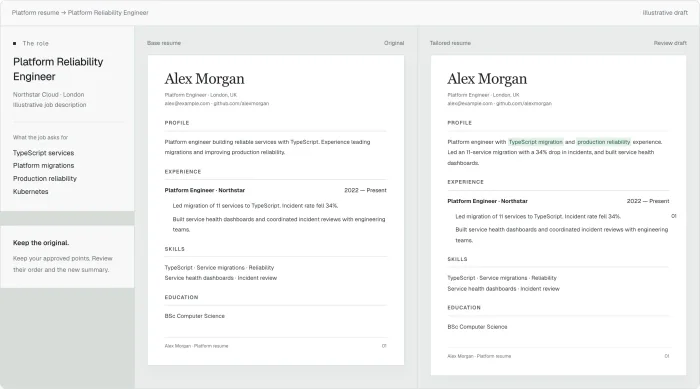
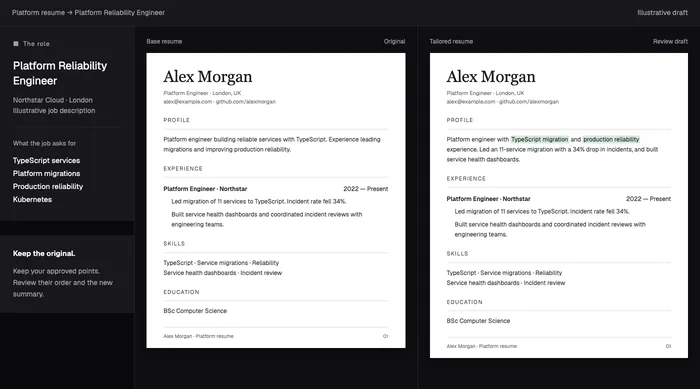
Dark specimen, dark legacy routes (pricing, blog, legal, 404), dedupe CSS tokens for the duplication gate

diff --git a/src/app/readability.css b/src/app/readability.css
@@ -8,33 +8,6 @@
 }
 
 :is(.precision-app-nav ~ main, .product-editor-toolbar) {
-  --foreground: #202724;
-  --card-foreground: #202724;
-  --primary: #20252d;
-  --primary-foreground: #ffffff;
-  --accent: #20252d;
-  --accent-foreground: #ffffff;
-  --secondary: #edf1ef;
-  --secondary-foreground: #202724;
-  --muted: #edf1ef;
-  --muted-foreground: #4e5b57;
-  --border: #cbd4d0;
-  --input: #b6c3bc;
-  --ring: #265d49;
-  --color-foreground: var(--foreground);
-  --color-card-foreground: var(--card-foreground);
-  --color-primary: var(--primary);
-  --color-primary-foreground: var(--primary-foreground);
-  --color-secondary: var(--secondary);
-  --color-secondary-foreground: var(--secondary-foreground);
-  --color-muted: var(--muted);
-  --color-muted-foreground: var(--muted-foreground);
-  --color-accent: var(--accent);
-  --color-accent-foreground: var(--accent-foreground);
-  --color-border: var(--border);
-  --color-input: var(--input);
-  --color-ring: var(--ring);
-  --font-sans: var(--font-geist-sans), system-ui, sans-serif;
   color: var(--foreground);
   font-family: var(--font-sans);
   font-weight: 450;
@@ -52,11 +25,11 @@
 :is(.precision-app-nav ~ main, .product-editor-toolbar) .text-sm { font-size: 0.9375rem; line-height: 1.65; }
 :is(.precision-app-nav ~ main, .product-editor-toolbar) .text-xs { font-size: 0.8125rem; line-height: 1.7; }
 :is(.precision-app-nav ~ main, .product-editor-toolbar) :is(.text-gray-400, .text-gray-500) { color: var(--muted-foreground); }
-:is(.precision-app-nav ~ main, .product-editor-toolbar) .text-red-400 { color: #a52d31; }
-:is(.precision-app-nav ~ main, .product-editor-toolbar) .text-emerald-400 { color: #196044; }
-:is(.precision-app-nav ~ main, .product-editor-toolbar) .text-amber-400 { color: #865308; }
-:is(.precision-app-nav ~ main, .product-editor-toolbar) .text-sky-400 { color: #155d82; }
-:is(.precision-app-nav ~ main, .product-editor-toolbar) :is(input, textarea, select)::placeholder { color: #60716a; opacity: 1; }
+:is(.precision-app-nav ~ main, .product-editor-toolbar) .text-red-400 { color: #ff6467; }
+:is(.precision-app-nav ~ main, .product-editor-toolbar) .text-emerald-400 { color: #6ee7b7; }
+:is(.precision-app-nav ~ main, .product-editor-toolbar) .text-amber-400 { color: #fbbf24; }
+:is(.precision-app-nav ~ main, .product-editor-toolbar) .text-sky-400 { color: #7dd3fc; }
+:is(.precision-app-nav ~ main, .product-editor-toolbar) :is(input, textarea, select)::placeholder { color: #9f9fa9; opacity: 1; }
 :is(.precision-app-nav ~ main, .product-editor-toolbar) label { letter-spacing: 0.025em; }
 :is(.precision-app-nav ~ main, .product-editor-toolbar) .input-base { line-height: 1.65; }
 :is(.precision-app-nav ~ main, .product-editor-toolbar) .product-primary-action {
@@ -64,17 +37,17 @@
   color: var(--primary-foreground);
   border-color: var(--primary);
 }
-:is(.precision-app-nav ~ main, .product-editor-toolbar) .product-primary-action:hover:not(:disabled) { background: #343e39; }
+:is(.precision-app-nav ~ main, .product-editor-toolbar) .product-primary-action:hover:not(:disabled) { background: #d4d4d8; }
 
 @media(max-width:700px) {
   :is(.precision-app-nav ~ main, .product-editor-toolbar) :is(input, textarea, select).input-base { font-size: 1rem; }
 }
 
-/* Legacy light-tone badges and micro-labels must remain readable on white. */
-:is(.precision-app-nav ~ main, .product-editor-toolbar) :is(.text-emerald-300, .text-emerald-200, .text-emerald-100) { color: #196044; }
-:is(.precision-app-nav ~ main, .product-editor-toolbar) :is(.text-sky-300, .text-sky-200, .text-sky-100) { color: #155d82; }
-:is(.precision-app-nav ~ main, .product-editor-toolbar) :is(.text-amber-300, .text-amber-200, .text-amber-100, [class~="text-amber-200/80"]) { color: #865308; }
-:is(.precision-app-nav ~ main, .product-editor-toolbar) :is(.text-red-300, .text-red-200, .text-red-100) { color: #a52d31; }
+/* Legacy light-tone badges and micro-labels must remain readable on dark. */
+:is(.precision-app-nav ~ main, .product-editor-toolbar) :is(.text-emerald-300, .text-emerald-200, .text-emerald-100) { color: #6ee7b7; }
+:is(.precision-app-nav ~ main, .product-editor-toolbar) :is(.text-sky-300, .text-sky-200, .text-sky-100) { color: #7dd3fc; }
+:is(.precision-app-nav ~ main, .product-editor-toolbar) :is(.text-amber-300, .text-amber-200, .text-amber-100, [class~="text-amber-200/80"]) { color: #fbbf24; }
+:is(.precision-app-nav ~ main, .product-editor-toolbar) :is(.text-red-300, .text-red-200, .text-red-100) { color: #ff6467; }
 :is(.precision-app-nav ~ main, .product-editor-toolbar) :is([class~="text-[10px]"], [class~="text-[11px]"]) { font-size: 0.75rem; line-height: 1.6; }
 .product-editor-toolbar :is(.text-gray-200, .text-gray-400, .text-gray-500) { color: var(--muted-foreground); }
 /* Selected Outline layout: the existing Precision Studio system, with section indexing. */

diff --git a/src/app/globals.css b/src/app/globals.css
@@ -4,27 +4,27 @@
 @import "./workspace.css";
 
 :root {
-  color-scheme: light;
-  --radius: 0.5rem;
-  --background: #f8fafc;
-  --foreground: #1b2940;
-  --card: #ffffff;
-  --card-foreground: #1b2940;
-  --popover: #ffffff;
-  --popover-foreground: #1b2940;
-  --primary: #345cf0;
-  --primary-foreground: #ffffff;
-  --secondary: #e8eef9;
-  --secondary-foreground: #1b2940;
-  --muted: #edf1f7;
-  --muted-foreground: #5b687c;
-  --accent: #345cf0;
-  --accent-foreground: #ffffff;
-  --destructive: #a63838;
-  --destructive-foreground: #ffffff;
-  --border: #dfe5ee;
-  --input: #dfe5ee;
-  --ring: #345cf0;
+  color-scheme: dark;
+  --radius: 0.625rem;
+  --background: #09090b;
+  --foreground: #fafafa;
+  --card: #18181b;
+  --card-foreground: #fafafa;
+  --popover: #18181b;
+  --popover-foreground: #fafafa;
+  --primary: #e4e4e7;
+  --primary-foreground: #18181b;
+  --secondary: #27272a;
+  --secondary-foreground: #fafafa;
+  --muted: #27272a;
+  --muted-foreground: #9f9fa9;
+  --accent: #27272a;
+  --accent-foreground: #fafafa;
+  --destructive: #ff6467;
+  --destructive-foreground: #18181b;
+  --border: rgba(255, 255, 255, 0.1);
+  --input: rgba(255, 255, 255, 0.1);
+  --ring: #e4e4e7;
 }
 
 @theme inline {
@@ -137,7 +137,7 @@ main {
   }
 }
 
-/* Native selects follow the shared light system. */
+/* Native selects follow the shared dark system. */
 select option {
   background: var(--card);
   color: var(--foreground);
@@ -154,12 +154,12 @@ select option {
 }
 
 ::-webkit-scrollbar-thumb {
-  background: #333;
+  background: #3f3f46;
   border-radius: 3px;
 }
 
 ::-webkit-scrollbar-thumb:hover {
-  background: #555;
+  background: #52525b;
 }
 
 :where(a, button, summary, input, select, textarea):focus-visible { outline: 2px solid var(--ring); outline-offset: 3px; }

diff --git a/src/app/precision.css b/src/app/precision.css
@@ -1,20 +1,20 @@
 /* Precision Studio is scoped to application content; existing footer tokens stay intact. */
-.precision-app, .precision-app-nav {
-  --background: #fcfcfb;
-  --foreground: #191c20;
-  --card: #ffffff;
-  --card-foreground: #191c20;
-  --primary: #20252d;
-  --primary-foreground: #ffffff;
-  --accent: #20252d;
-  --accent-foreground: #ffffff;
-  --secondary: #eef0ee;
-  --secondary-foreground: #191c20;
-  --muted: #f2f3f2;
-  --muted-foreground: #686c74;
-  --border: #dfe1e3;
-  --input: #dfe1e3;
-  --ring: #20252d;
+.precision-app, .precision-app-nav, :is(.precision-app-nav ~ main, .product-editor-toolbar) {
+  --background: #09090b;
+  --foreground: #fafafa;
+  --card: #18181b;
+  --card-foreground: #fafafa;
+  --primary: #e4e4e7;
+  --primary-foreground: #18181b;
+  --accent: #27272a;
+  --accent-foreground: #fafafa;
+  --secondary: #27272a;
+  --secondary-foreground: #fafafa;
+  --muted: #27272a;
+  --muted-foreground: #9f9fa9;
+  --border: rgba(255, 255, 255, 0.1);
+  --input: rgba(255, 255, 255, 0.1);
+  --ring: #e4e4e7;
   --color-background: var(--background);
   --color-foreground: var(--foreground);
   --color-card: var(--card);
@@ -35,7 +35,7 @@
   background: var(--background);
   font-family: var(--font-sans);
 }
-.precision-app-nav { background: #fcfcfb; }
+.precision-app-nav { background: #09090b; }
 .precision-app-nav > div:first-child { max-width: 1280px; height: 72px; }
 .precision-app-nav a { white-space: nowrap; }
 .precision-workspace { width: min(1232px, calc(100% - 96px)); margin: auto; padding: 32px 0 48px; min-height: calc(100dvh - 72px); }

diff --git a/landing-astro/src/styles/precision.css b/landing-astro/src/styles/precision.css
@@ -262,7 +262,7 @@ html:has(main#main), html:has(main#main) body {
   background: #09090b;
   color: #fafafa;
 }
-body > header, main#main, body > a[href="#main"] {
+body > header, main#main, body > a[href="#main"], footer[data-fleet-footer="studio"] {
   --background: #09090b;
   --foreground: #fafafa;
   --surface: #18181b;
@@ -306,25 +306,6 @@ main#main :is(mark, ins) { background: #b5daca; color: #18181b; }
    landing tokens, without modifying shared CSS or footer markup. */
 footer[data-fleet-footer="studio"] {
   color-scheme: dark;
-  --background: #09090b;
-  --foreground: #fafafa;
-  --surface: #18181b;
-  --card: #18181b;
-  --card-foreground: #fafafa;
-  --popover: #18181b;
-  --popover-foreground: #fafafa;
-  --muted: #27272a;
-  --muted-foreground: #9f9fa9;
-  --border: rgba(255,255,255,.10);
-  --input: var(--border);
-  --brand: #e4e4e7;
-  --brand-foreground: #18181b;
-  --brand-soft: #27272a;
-  --brand-ink: #e4e4e7;
-  --primary: #e4e4e7;
-  --primary-foreground: #18181b;
   --accent: #27272a;
   --accent-foreground: #fafafa;
-  --ring: #e4e4e7;
-  color: var(--foreground);
 }
